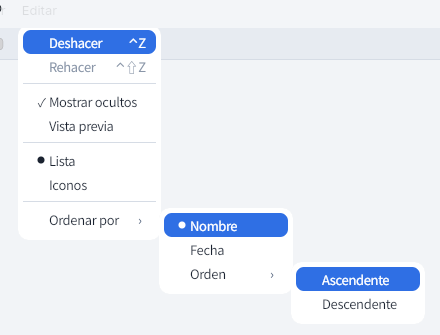
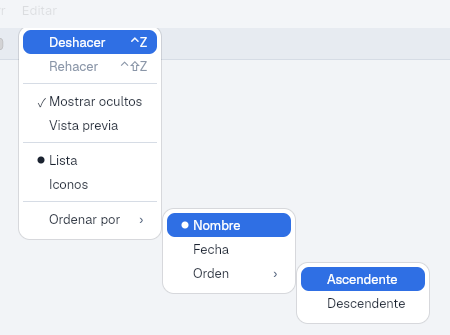
docs(bloques): recapturar 14a con Geist y el borde doble
Las siete capturas se rehacen dentro del dev shell con FONTCONFIG_FILE: el
texto de los menús sale en Geist y los glifos ⌃⌥⇧❖ en Inter. En borde-claro
y borde-oscuro el árbol de tres niveles queda entero a la izquierda del raíz,
con los paneles pegados sin solaparse (el nieto hereda la dirección).

Se añade borde-doble-oscuro.png, un recorte ×4 del borde superior de un panel
oscuro donde se ven la línea exterior negra (window-outer) y la interior clara
(window-inner).

diff --git a/docs/bloques/14-menu-global.md b/docs/bloques/14-menu-global.md
@@ -79,7 +79,8 @@ reserva zona exclusiva en este modo.
 Sesión anidada (`./dev.sh demo`: wallpaper, menubar real, dock y ventanas) con
 el ejemplo en cada caso y captura por `SIGUSR1`. Claro y oscuro se obtienen
 escribiendo `color_scheme = "light"|"dark"` en `appearance.domain` y apuntando
-`YUKI_CONFIG_DIR` a ese directorio para el demo y el ejemplo.
+`YUKI_CONFIG_DIR` a ese directorio para el demo y el ejemplo. El texto de los
+menús sale en Geist; los glifos ⌃⌥⇧❖, en Inter (el respaldo fijo de la pila).
 
 ![Menú Ir en claro](img/14a/ir-claro.png)
 
@@ -103,24 +104,30 @@ empieza a la altura de la fila que lo abre.
 ![Menú en el borde en claro](img/14a/borde-claro.png)
 
 `borde-claro.png`: «Editar» abierto desde el borde derecho; el compositor
-voltea el raíz y el primer submenú hacia la izquierda. El nieto, que sí cabe,
-abre a la derecha.
+voltea el raíz y sus descendientes hacia la izquierda. El árbol de tres niveles
+queda entero a la izquierda, pegado al raíz sin solaparse.
 
 ![Detalle del flip del submenú](img/14a/borde-flip-claro.png)
 
 `borde-flip-claro.png`: detalle del primer submenú «Nombre», volteado a la
-izquierda por el compositor; su fila coincide con «Ordenar por» y el ejemplo no
-tiene ninguna rama especial para abrirlo a la izquierda.
+izquierda por el compositor; su borde derecho coincide con el izquierdo del
+raíz, su fila coincide con «Ordenar por» y el ejemplo no tiene ninguna rama
+especial para abrirlo a la izquierda.
 
 ![Menú en el borde en oscuro](img/14a/borde-oscuro.png)
 
-`borde-oscuro.png`: la misma disposición de borde en oscuro.
+`borde-oscuro.png`: la misma disposición de borde en oscuro, con el borde
+doble visible en los paneles.
+
+![Detalle del borde doble](img/14a/borde-doble-oscuro.png)
+
+`borde-doble-oscuro.png`: zoom ×4 del borde superior de un panel oscuro; se ve
+la línea exterior negra (`window-outer`) y la interior clara (`window-inner`).
 
 Nota de honestidad: la barra del ejemplo comparte la franja superior con el
 menubar real del demo y queda debajo de él, así que el título visible sobre el
-menú es el de la ventana activa («Yuki CSD»/«Yuki SSD»), no las etiquetas
-«Ir»/«Editar»/«Borde» del ejemplo. El menú sí está anclado en la posición de
-esas etiquetas.
+menú es el de la ventana activa, no las etiquetas «Ir»/«Editar»/«Borde» del
+ejemplo. El menú sí está anclado en la posición de esas etiquetas.
 
 ## Divergencias
 
